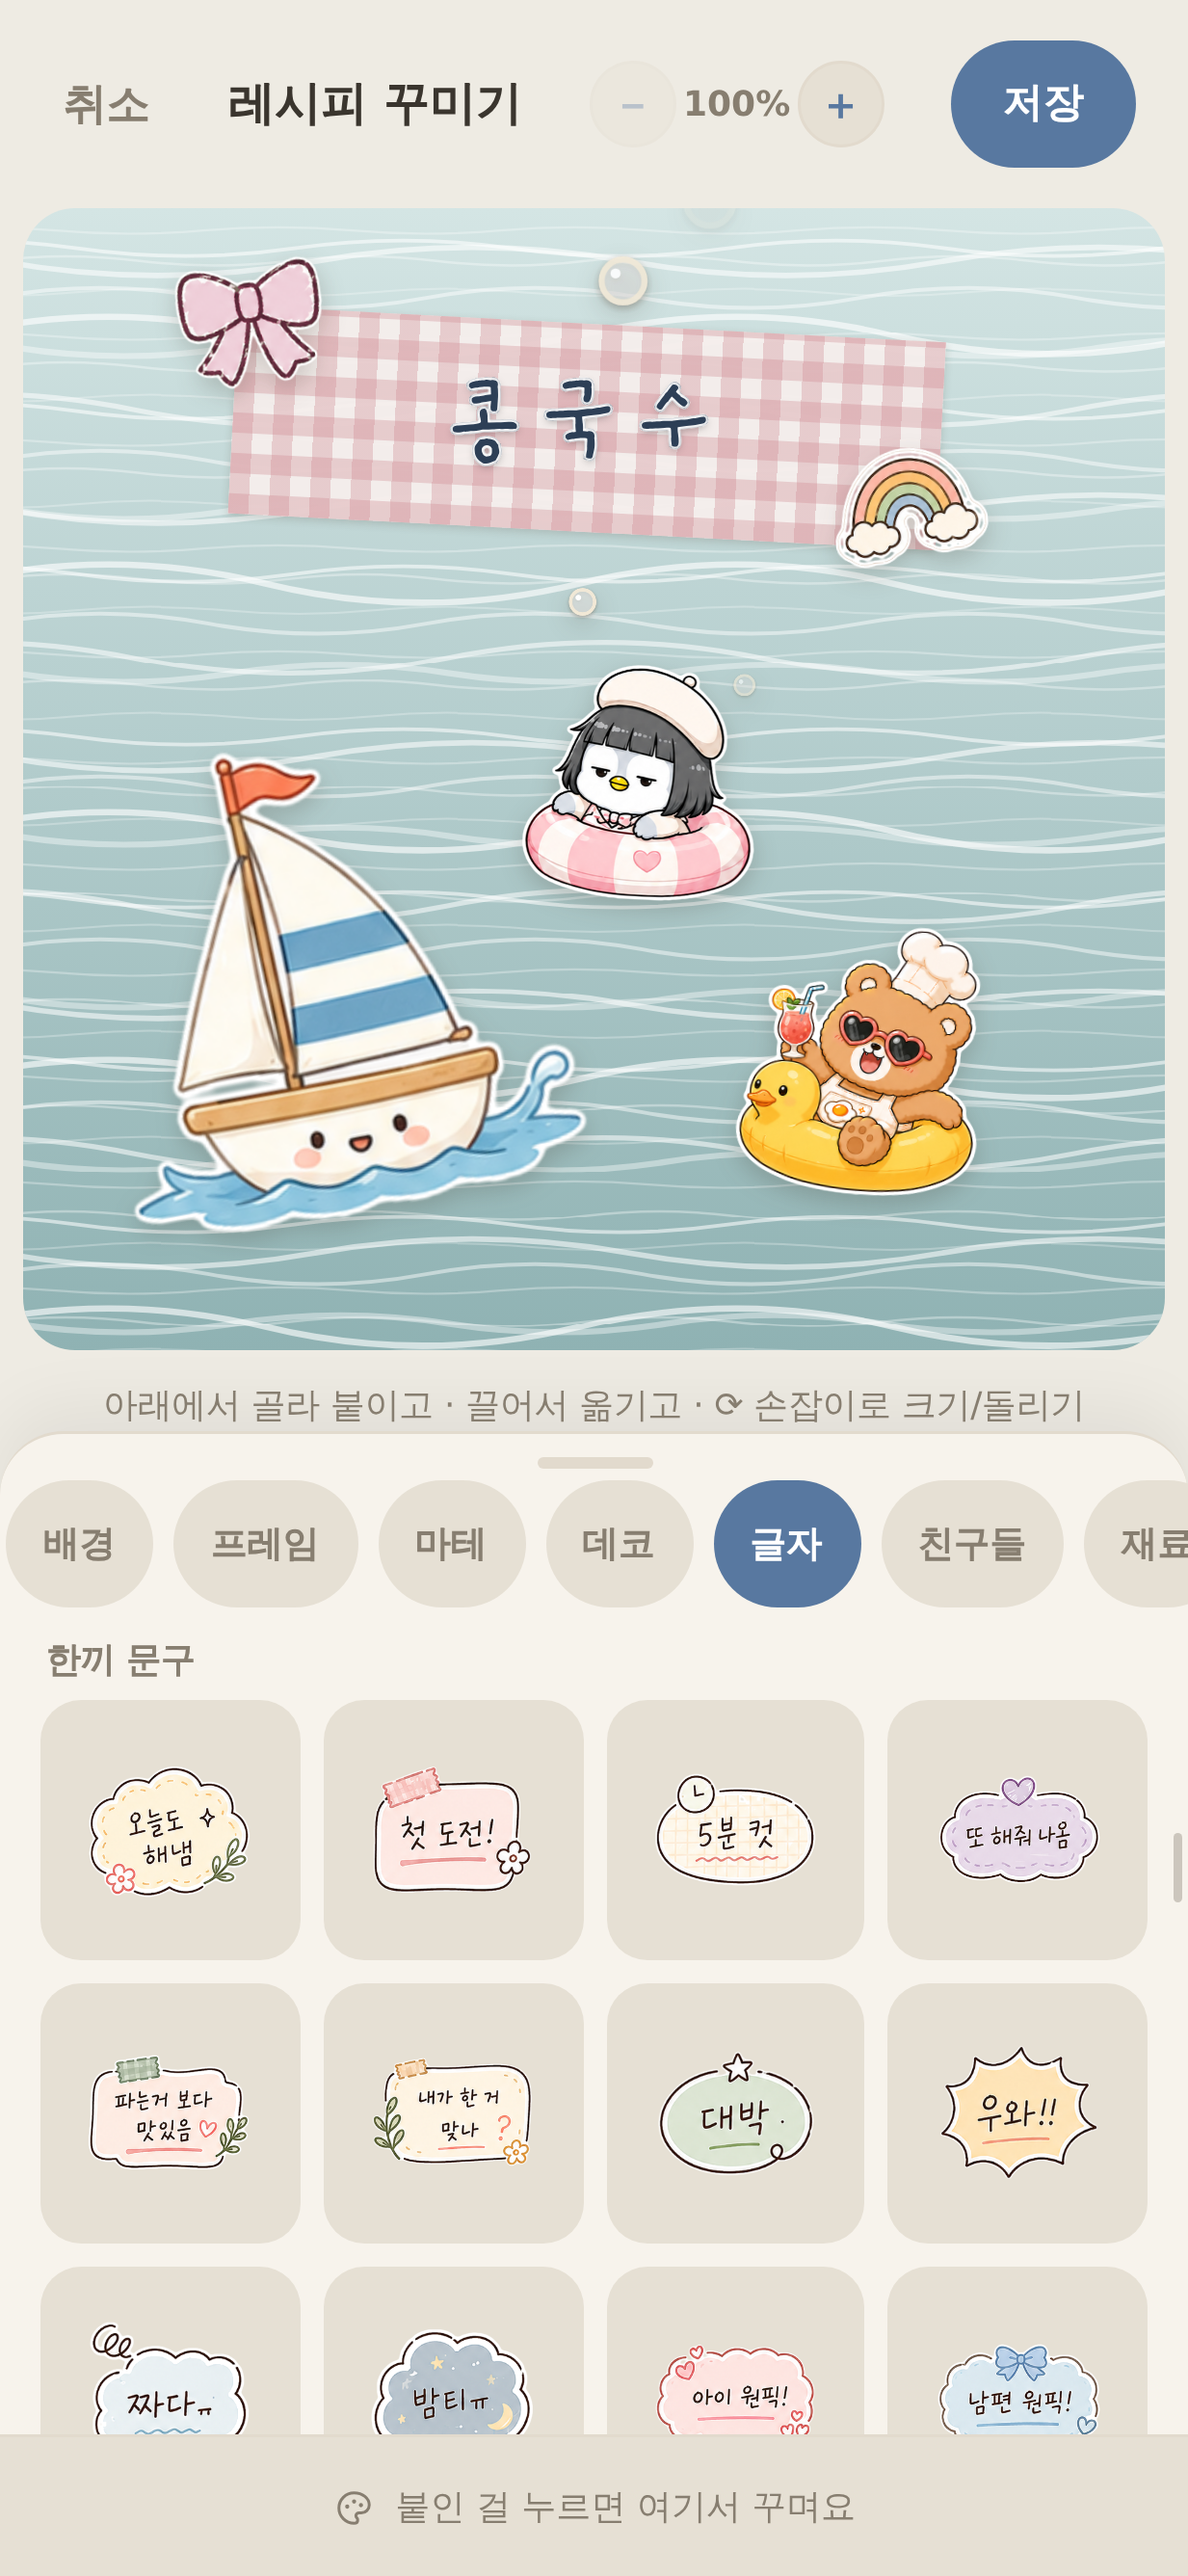
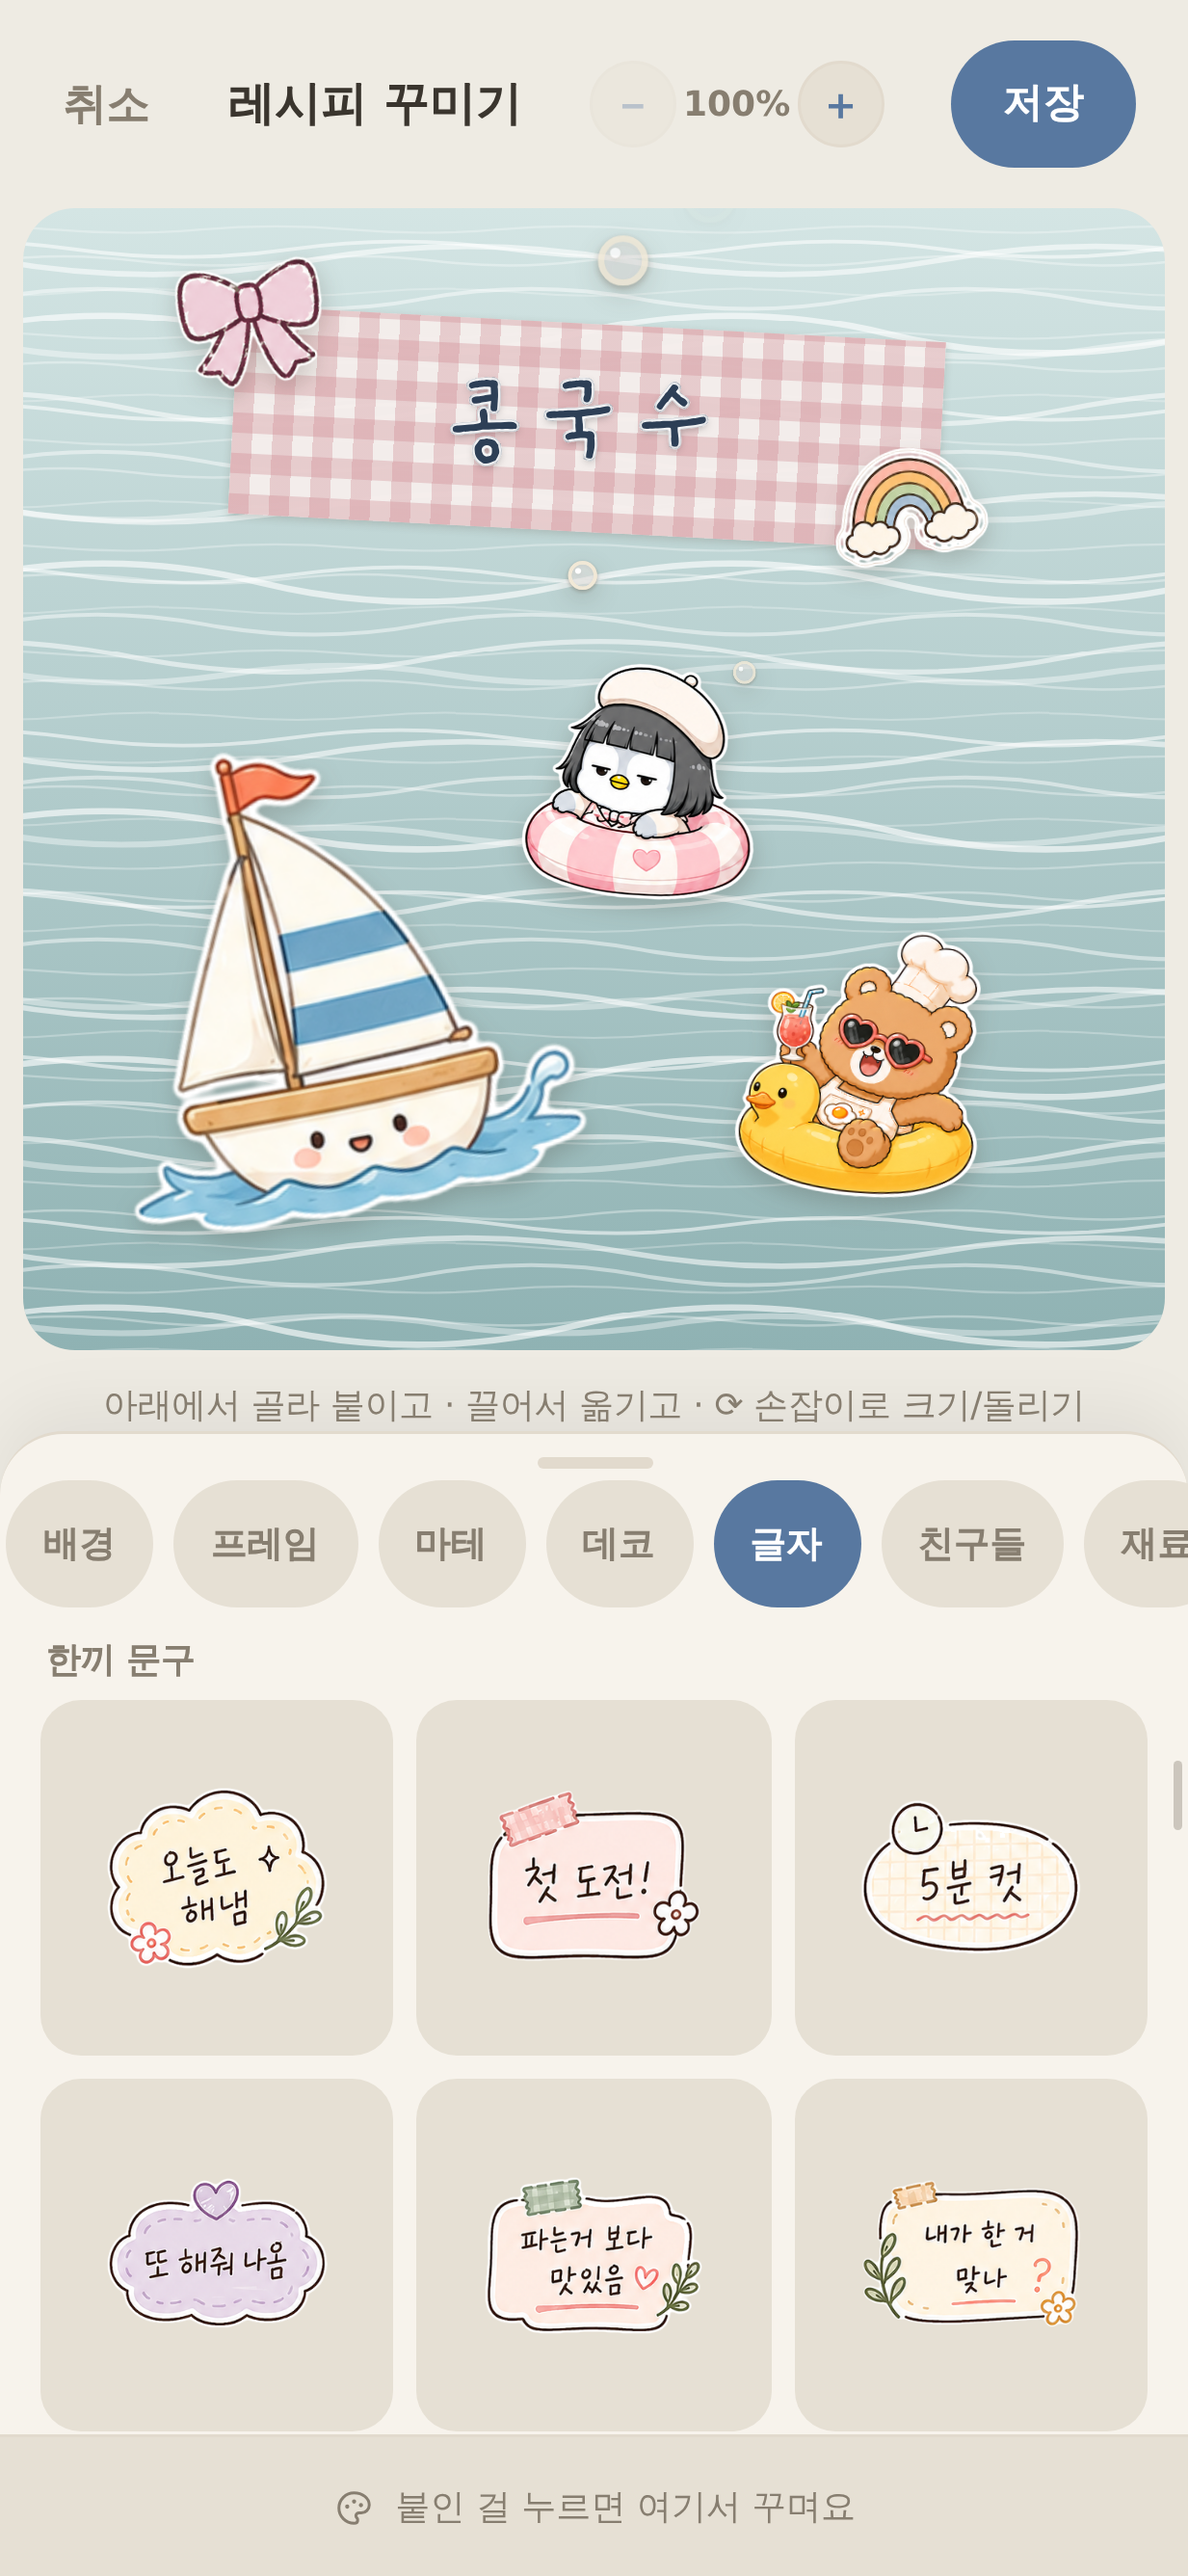
🔠 글자 칸 88 → 110px — 창업자가 rs_ 로 다시 짚었다
📮 창업자 2026-08-12 *"저 글자말고 더 아래로 내리면 건강태그 반응평가 이런거 있잖아.
   그것도 찍어봐. 걔가 너무 안보여"* — **맞는 지적이고 내 갈래판이 반쪽이었다.**

⛔⛔ **내 판이 「한끼 문구」 위주였다.** 한끼 문구는 «말풍선에 큰 글자»라 88px 에서도 잘 읽힌다.
   그런데 `rs_` 99컷은 **그림 ＋ 아래 작은 캡션**이라 같은 88px 에서 훨씬 불리하다.
   📌 **제일 유리한 것으로 판정판을 만들면 안 된다 — 제일 «불리한» 것으로 재야 한다.**

⭐⭐ 찍어 보고 «더 큰 것»을 찾았다 — 건강 태그는 **「저당」이 3개 · 「저염」이 3개 · 「단백질」이 2개**다.
   **캡션이 같고 그림이 다르다** → 글자를 읽는 게 아니라 «그림으로» 골라야 하는데
   90px 칸 안에서 그림은 ~60px 이라 세 개가 그냥 비슷한 덩어리로 보였다.
   🔢 110px(실측 122×122)에서는 각설탕 그릇 / 요거트볼 / 케이크 로 **확실히 갈린다.**

⏳ 창업자 판정 대기 — 88 vs 110 실물 두 장을 나란히 보냈다.
   ⚠ 110 은 한 줄 3칸이라 131컷을 훑으려면 더 굴려야 한다. 그 맞바꿈도 같이 알렸다.

Claude-Session: https://claude.ai/code/session_01FxApkQkfqgWWNZhgiynRFA

diff --git a/hankki/src/styles.css b/hankki/src/styles.css
@@ -2672,7 +2672,7 @@ html, body { overscroll-behavior: none; }
       있고 그것들이 `!important` 를 쓴다 — 같은 세기면 **뒤에 오는 것이 이긴다.**
       앞에 두면 작은 화면에서 통째로 안 먹는다(v10.12 에 하루 여섯 번 밟은 그 함정).
    ⭐ 「글자」 탭에만 걸린다 — 데코·친구들 탭은 창업자가 이미 OK 한 크기다. 안 건드린다. */
-.decor-grid.wordy { grid-template-columns: repeat(auto-fill, minmax(88px, 1fr)) !important; }
+.decor-grid.wordy { grid-template-columns: repeat(auto-fill, minmax(110px, 1fr)) !important; }
 /* 📱 작은 폰(360×640 급)은 서랍 폭이 좁아 88px 이면 3칸도 아슬하다 — 72px 로 낮춘다(읽히는 선은 넘는다) */
 @media (max-height: 700px) {
   .decor-grid.wordy { grid-template-columns: repeat(auto-fill, minmax(72px, 1fr)) !important; }
